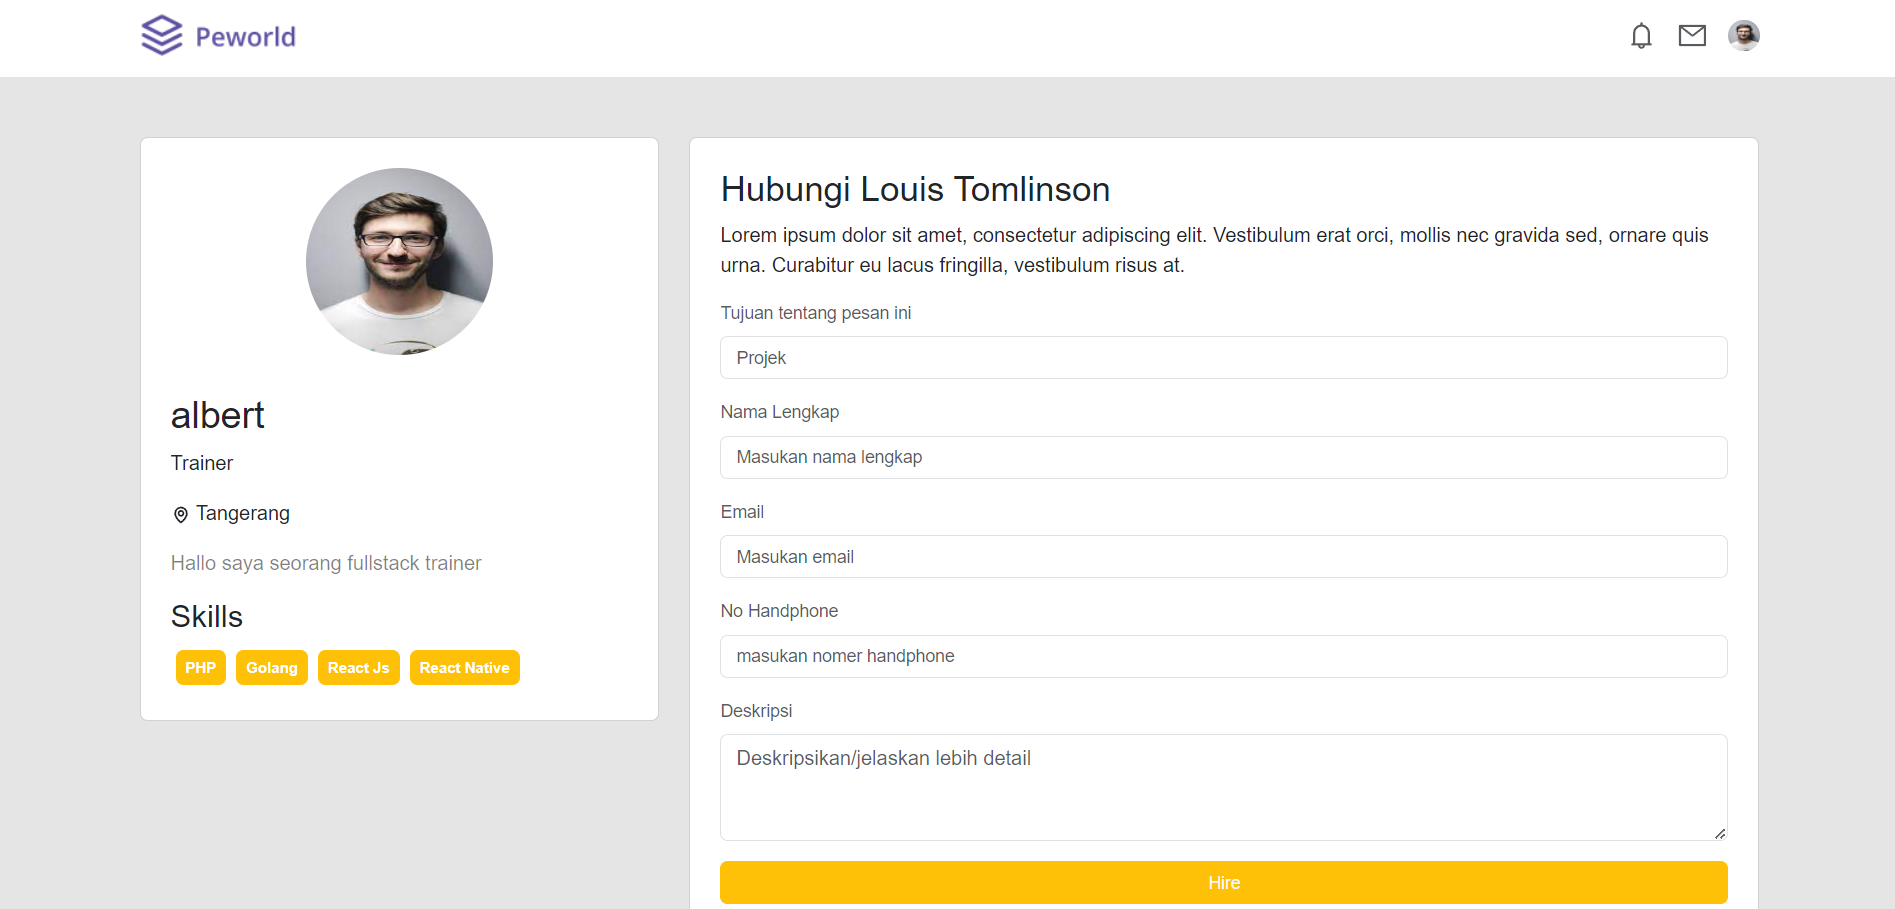
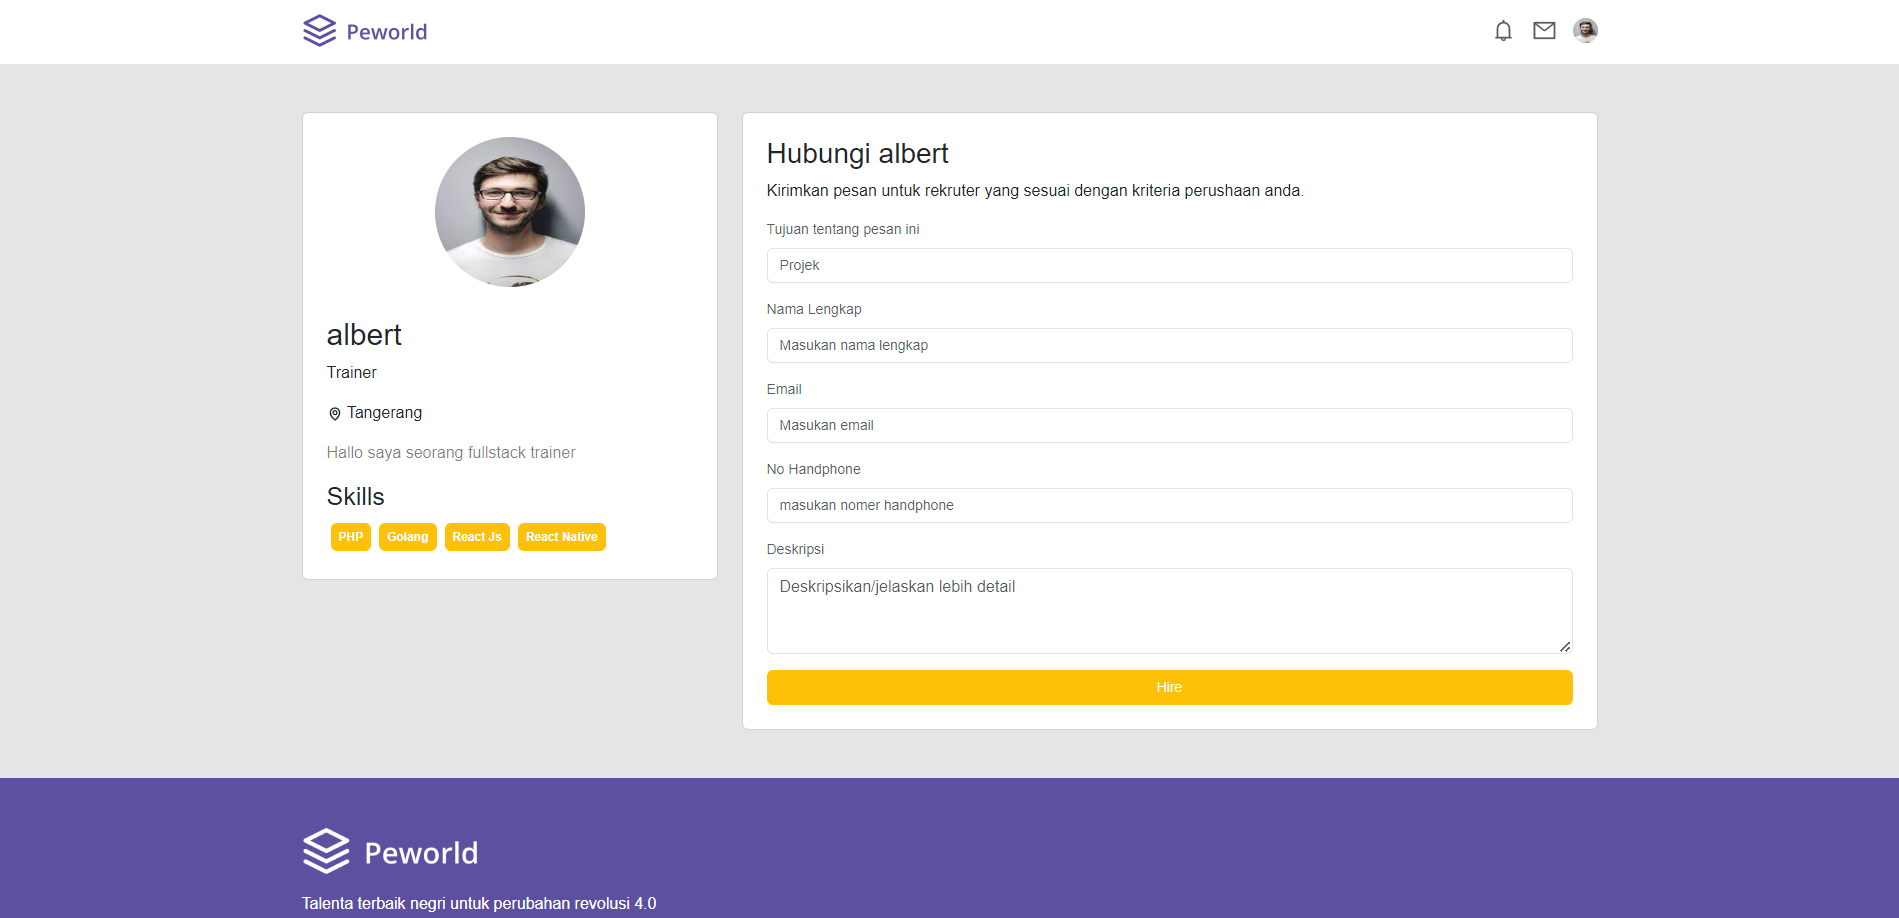
[UPDATE] Photo Readme

diff --git a/pages/hirejob.js b/pages/hirejob.js
@@ -69,8 +69,8 @@ React.useEffect(() =>{
             {/* strat content right */}
             <div className="col col-md-8">
               <div className="card p-4">
-                <h3>Hubungi Louis Tomlinson</h3>
-                <p>Lorem ipsum dolor sit amet, consectetur adipiscing elit. Vestibulum erat orci, mollis nec gravida sed, ornare quis urna. Curabitur eu lacus fringilla, vestibulum risus at.</p>
+                <h3>Hubungi {user.fullname}</h3>
+                <p>Kirimkan pesan untuk rekruter yang sesuai dengan kriteria perushaan anda.</p>
 
                 <div className="text-muted" style={{ fontSize: "14px" }}>
                   <p for="inputtext5" class="form-label">
